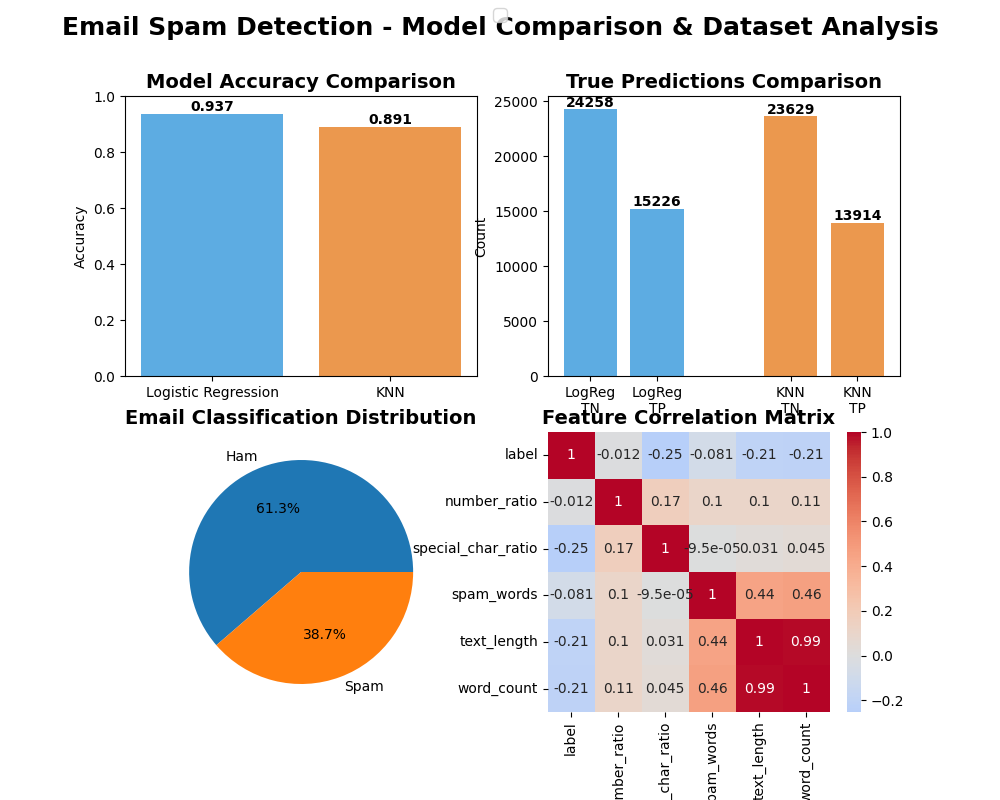
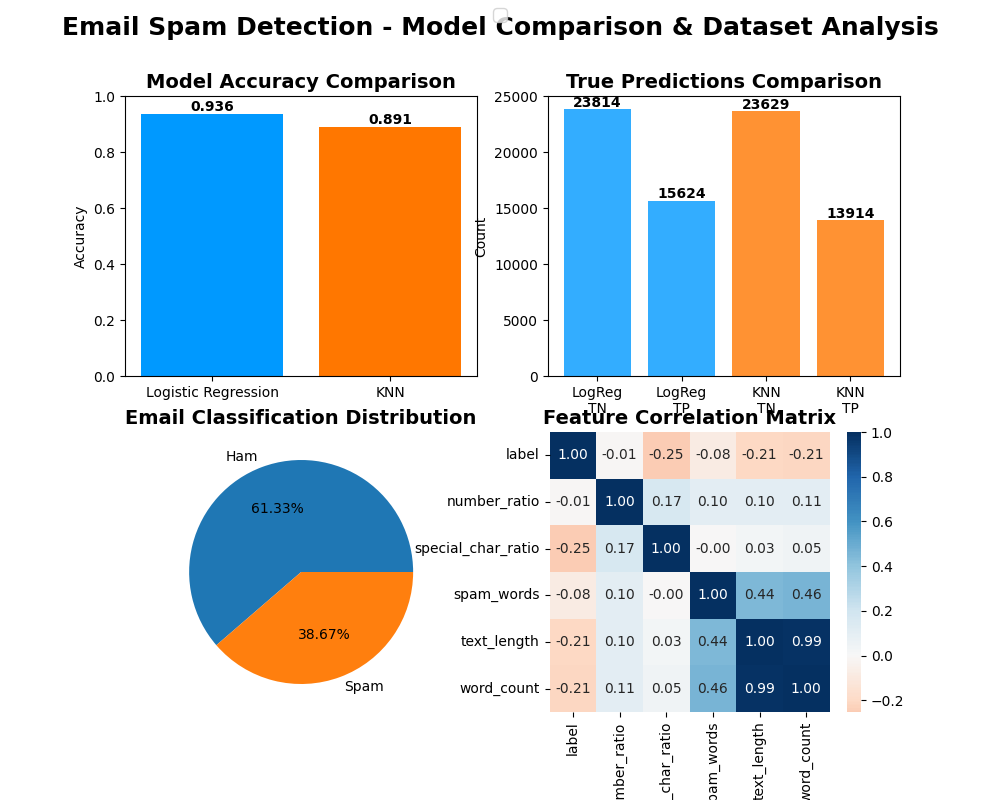
08/10

diff --git a/log_reg.py b/log_reg.py
@@ -65,7 +65,7 @@ def main():
 
     # Create and train a LogisticRegression classifier with parameters
     # to prevent overfitting. 
-    clf = LogisticRegression(C=1.0, random_state=42, solver='liblinear', max_iter=20000)
+    clf = LogisticRegression(class_weight= 'balanced', C=1.0, random_state=42, solver='liblinear', max_iter=20000)
     clf.fit(X_train, y_train)
     y_pred = clf.predict(X_test)
 
@@ -96,7 +96,7 @@ def main():
     # Confusion Matrix Visualization
     cm = confusion_matrix(y_test, y_pred)
     print("Confusion Matrix:\n", cm)
-    sns.heatmap(cm, annot=True, fmt='d', cmap='Blues', cbar=False, xticklabels=['Ham', 'Spam'], yticklabels=['Ham', 'Spam'])
+    sns.heatmap(cm, annot=True, fmt='d', xticklabels=['Ham', 'Spam'], yticklabels=['Ham', 'Spam'])
     plt.title('Logistic Regression Confusion Matrix')
     plt.xlabel('Predicted')
     plt.ylabel('Actual')

diff --git a/knn.py b/knn.py
@@ -79,7 +79,7 @@ def main():
     # plot a confusion matrix with test results
     cm = confusion_matrix(y_test, y_pred)
     print("Confusion Matrix:\n", cm)
-    sns.heatmap(cm, annot=True, fmt='d')
+    sns.heatmap(cm, annot=True, fmt='d', xticklabels=['Ham', 'Spam'], yticklabels=['Ham', 'Spam'])
     plt.title('KNN Confusion Matrix')
     plt.xlabel('Predicted')
     plt.ylabel('Actual')
